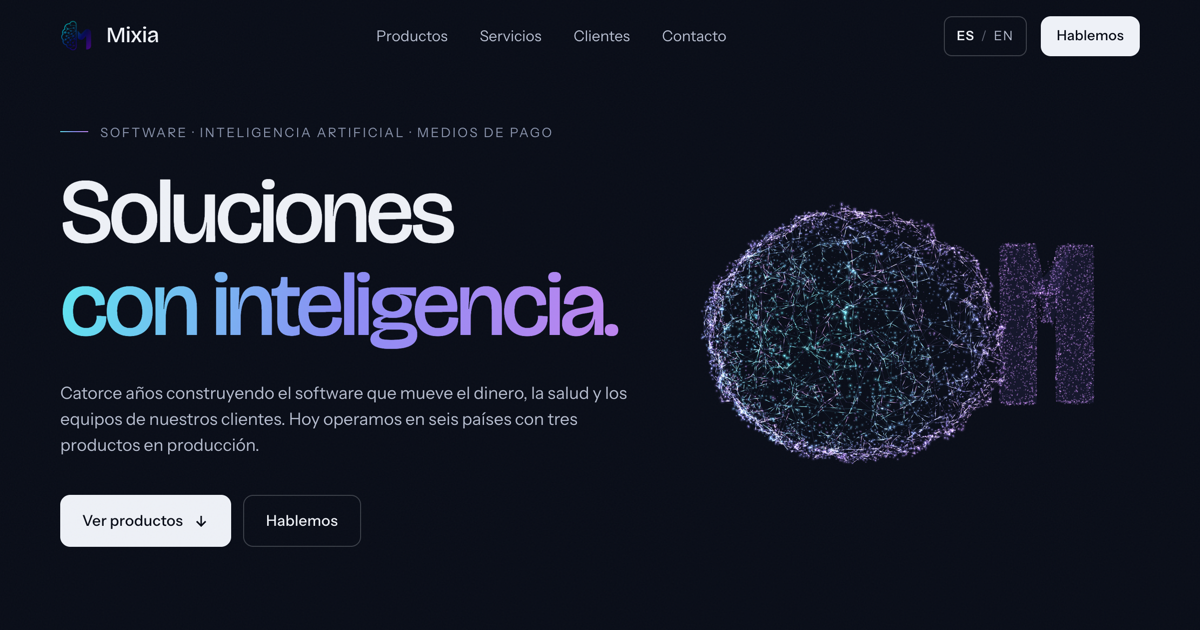
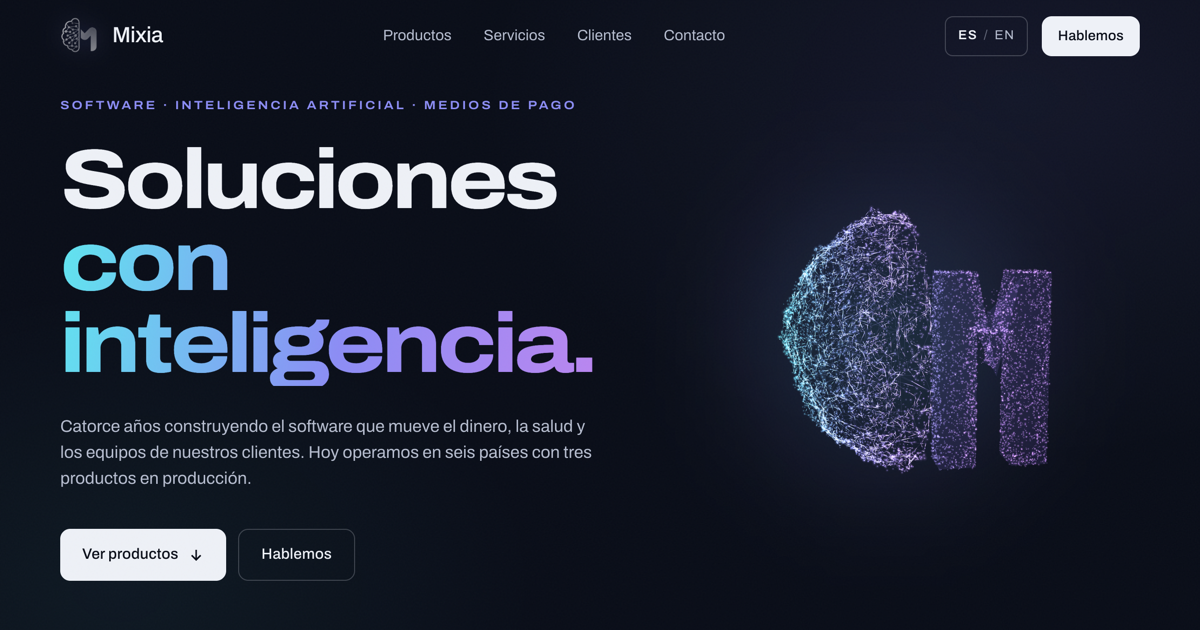
Ronda 2 cerrada: capturas v2, OG nuevo, handoff y AGENTS al día

diff --git a/src/styles/global.css b/src/styles/global.css
@@ -766,6 +766,9 @@ main {
 }
 
 /* ---------- Services: explorador ---------- */
+.services {
+  overflow: clip; /* el resplandor del explorador se sale 40px; clip no rompe el sticky */
+}
 .services-explorer {
   position: relative;
   display: grid;
@@ -1192,8 +1195,12 @@ main {
   }
   .stats-line {
     display: grid;
-    grid-template-columns: repeat(2, 1fr);
-    gap: 40px 24px;
+    grid-template-columns: repeat(2, minmax(0, 1fr));
+    gap: 40px 20px;
+  }
+  .stat b {
+    font-size: clamp(34px, 10vw, 52px);
+    letter-spacing: -0.06em;
   }
 }
 

diff --git a/docs/HANDOFF.md b/docs/HANDOFF.md
@@ -1,9 +1,29 @@
 # Handoff: Mixia Web Challenge, ronda 2 (feedback de Sebastián)
 
-Escrito el 2026-10-15 a las 11:20. Fecha límite: **hoy antes de las 6 pm**. Presentación mañana
+Escrito el 2026-10-15 a las 11:20; ronda 2 aplicada el mismo día a las 12:05. Presentación mañana
 16-oct, 5 minutos.
 
-## Estado comprobado
+## Ronda 2 aplicada (2026-10-15 12:05, contra HEAD de `main`)
+
+Los 9 puntos de abajo están aplicados. Capturas v2 en `docs/capturas/v2/` (mismo script que v1).
+Comprobado en local sobre el build: Lighthouse escritorio 97 / 100 / 100 / 100,
+`scripts/comportamiento.mjs` todo en verde, móvil 390 px sin desbordes.
+Decisiones tomadas en la ronda:
+- Hero: el isotipo gira en vaivén de ±17° con cabeceo, no da la vuelta completa (la M quedaría
+  escondida detrás del hemisferio). `src/three/LogoMark.tsx` lleva todo el movimiento.
+- Mixia Lock: 3 pantallas en canvas (`src/three/lockScreens.ts`) rotan cada 3,4 s en bucle; el
+  candado se abre en "desbloqueado" y se pone ámbar en "bloqueado".
+- Tipografía: Archivo Variable, una sola familia (títulos expandidos). Elegida por "corporativo
+  y tecnológico".
+- Logos: AWS, Google, Honda (Wikimedia Commons), Gerais y Scripps (sitio oficial). Damasco,
+  Banco R4, Grupo Higuea y SANUTEM no aparecen en la web: van como wordmark. **Confirmar con
+  Sebastián que el Gerais de gerais.com.ve (óptica) es el cliente.**
+- Contacto: anillo de partículas de fondo (`src/three/SignalRing.tsx`), tarjetas magnéticas y
+  hora local de Caracas y Ciudad de México.
+- Nav: logo en blanco con halo (vuelve al degradado en hover), línea de progreso de lectura,
+  subrayado que se desliza a la sección activa, menú móvil a pantalla completa.
+
+## Estado comprobado en la ronda 1 (referencia)
 
 - Sitio en vivo: https://mixia-web-challenge.vercel.app (alias de producción, deploy con
   `vercel --prod --yes`). Repo: https://github.com/sebastiansequeirab-rgb/mixia-web-challenge,
@@ -75,4 +95,6 @@ por sección, nada de `MeshTransmissionMaterial` dentro de `View`, Lenis + Scrol
 ## Pendiente después del rediseño
 
 - Guion de 5 minutos para la presentación del 16.
-- Regenerar `public/og.png` si cambia el hero.
+- Logos de Damasco, Banco R4, Grupo Higuea y SANUTEM si Sebastián consigue los archivos
+  (ver `public/clientes/FUENTES.md`).
+- `public/og.png` ya regenerado con el hero nuevo.

diff --git a/AGENTS.md b/AGENTS.md
@@ -25,6 +25,12 @@ Sitio de una página para el Mixia Web Challenge. Lee `README.md` para el qué; 
 
 ## Contenido
 
-- Marcas en `public/brand/`. La captura de pantalla de bloqueo (`public/textures/lock-screen.png`)
-  es la versión white label (LifePhone); no usar capturas con marca Damasco.
+- Marcas en `public/brand/`. Las pantallas de Mixia Lock se dibujan en canvas 2D
+  (`src/three/lockScreens.ts`, textos en i18n bajo `products.lock.screens`); no usar capturas
+  de clientes (LifePhone, Damasco).
+- Logos de clientes en `public/clientes/` con su fuente en `FUENTES.md`; se pintan en blanco con
+  `mask-image`, así que sirven en cualquier color. El que no tiene archivo va como wordmark.
+- Tipografía: una sola familia, Archivo Variable (`@fontsource-variable/archivo/wdth.css`); los
+  títulos usan `font-stretch` expandido. Sin eyebrows con raya ni cifras en cajas (feedback de
+  Sebastián, ronda 2).
 - La imagen OG (`public/og.png`) es una captura del hero; regenerarla si cambia el hero.
